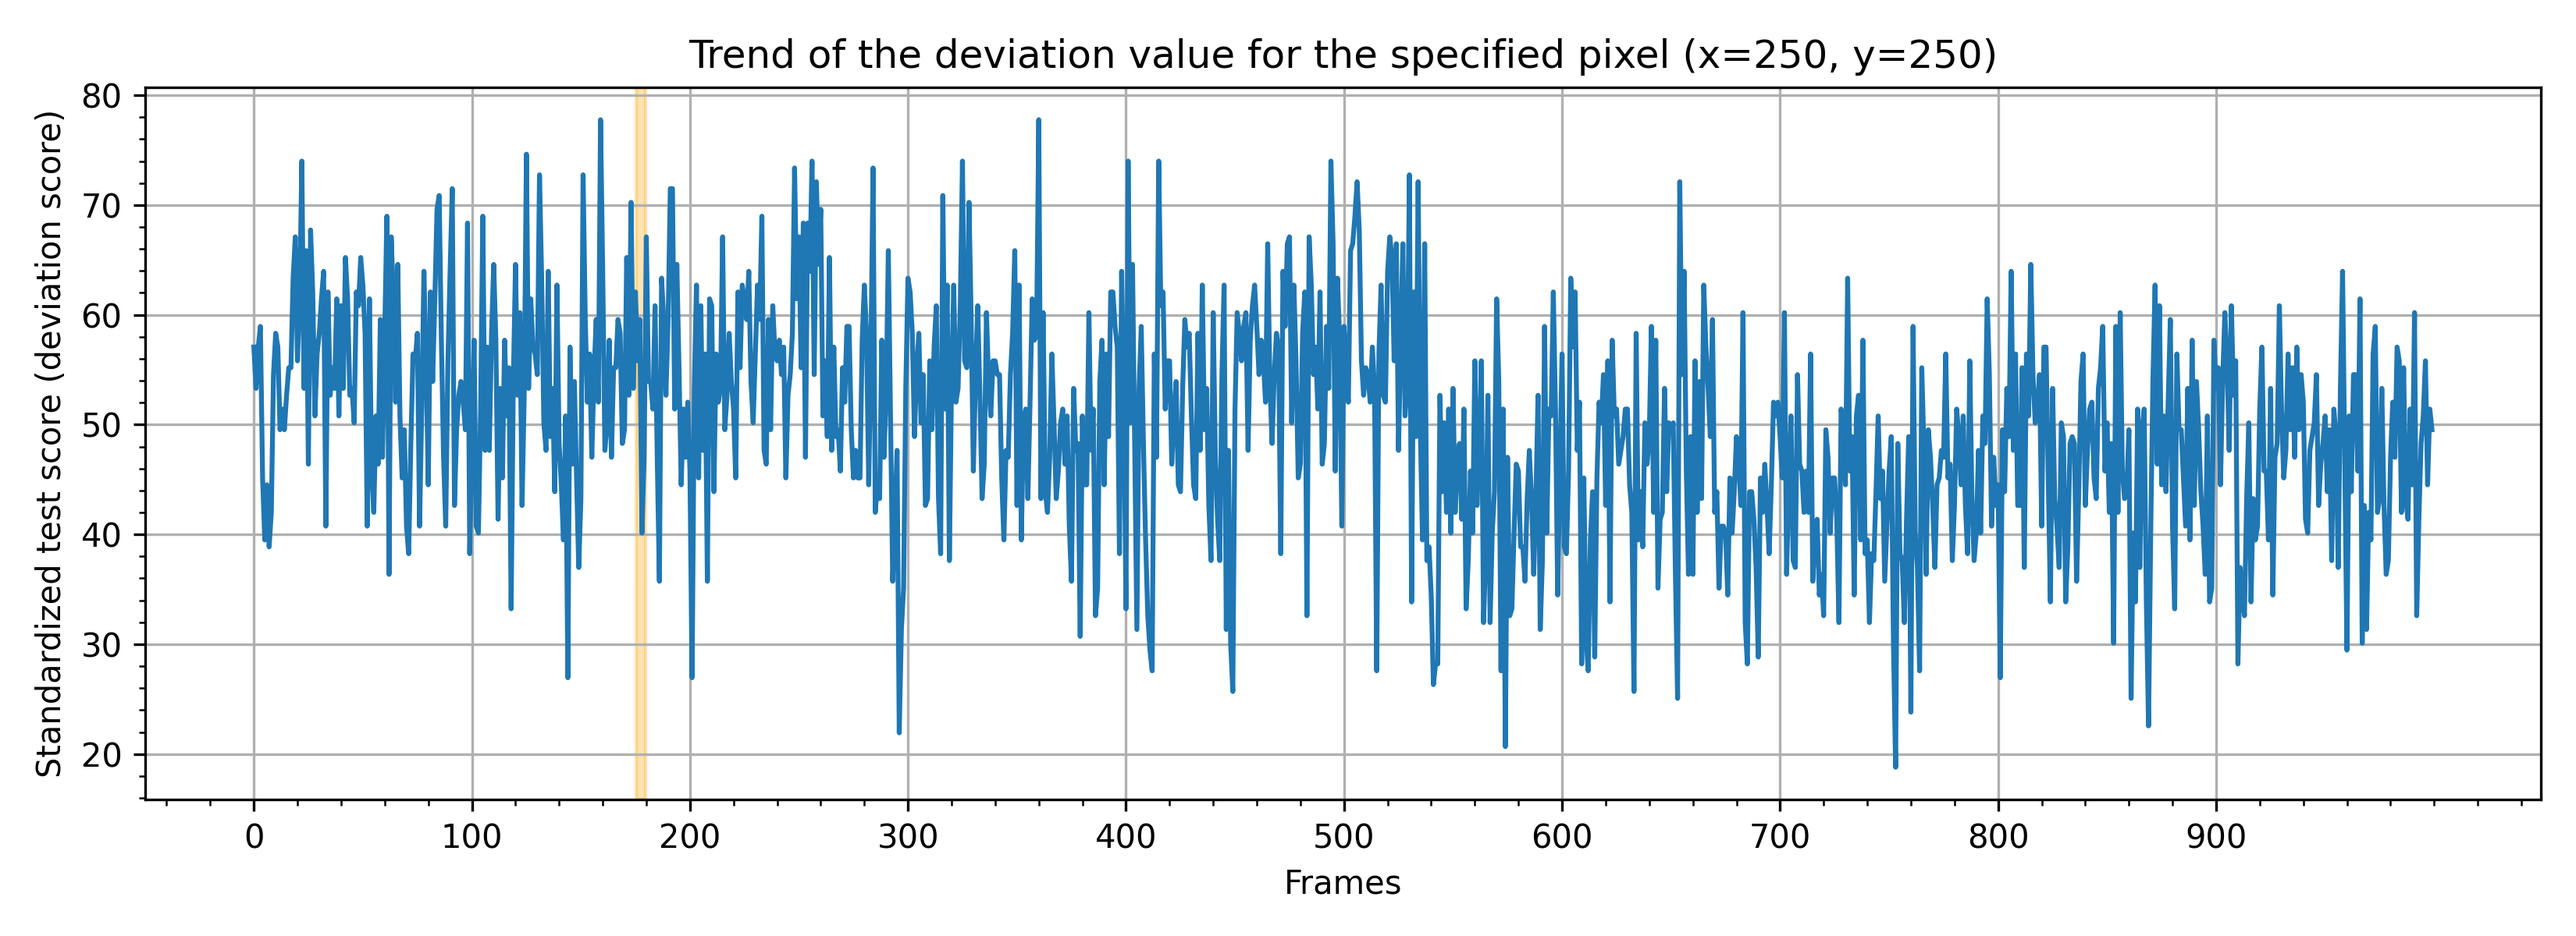
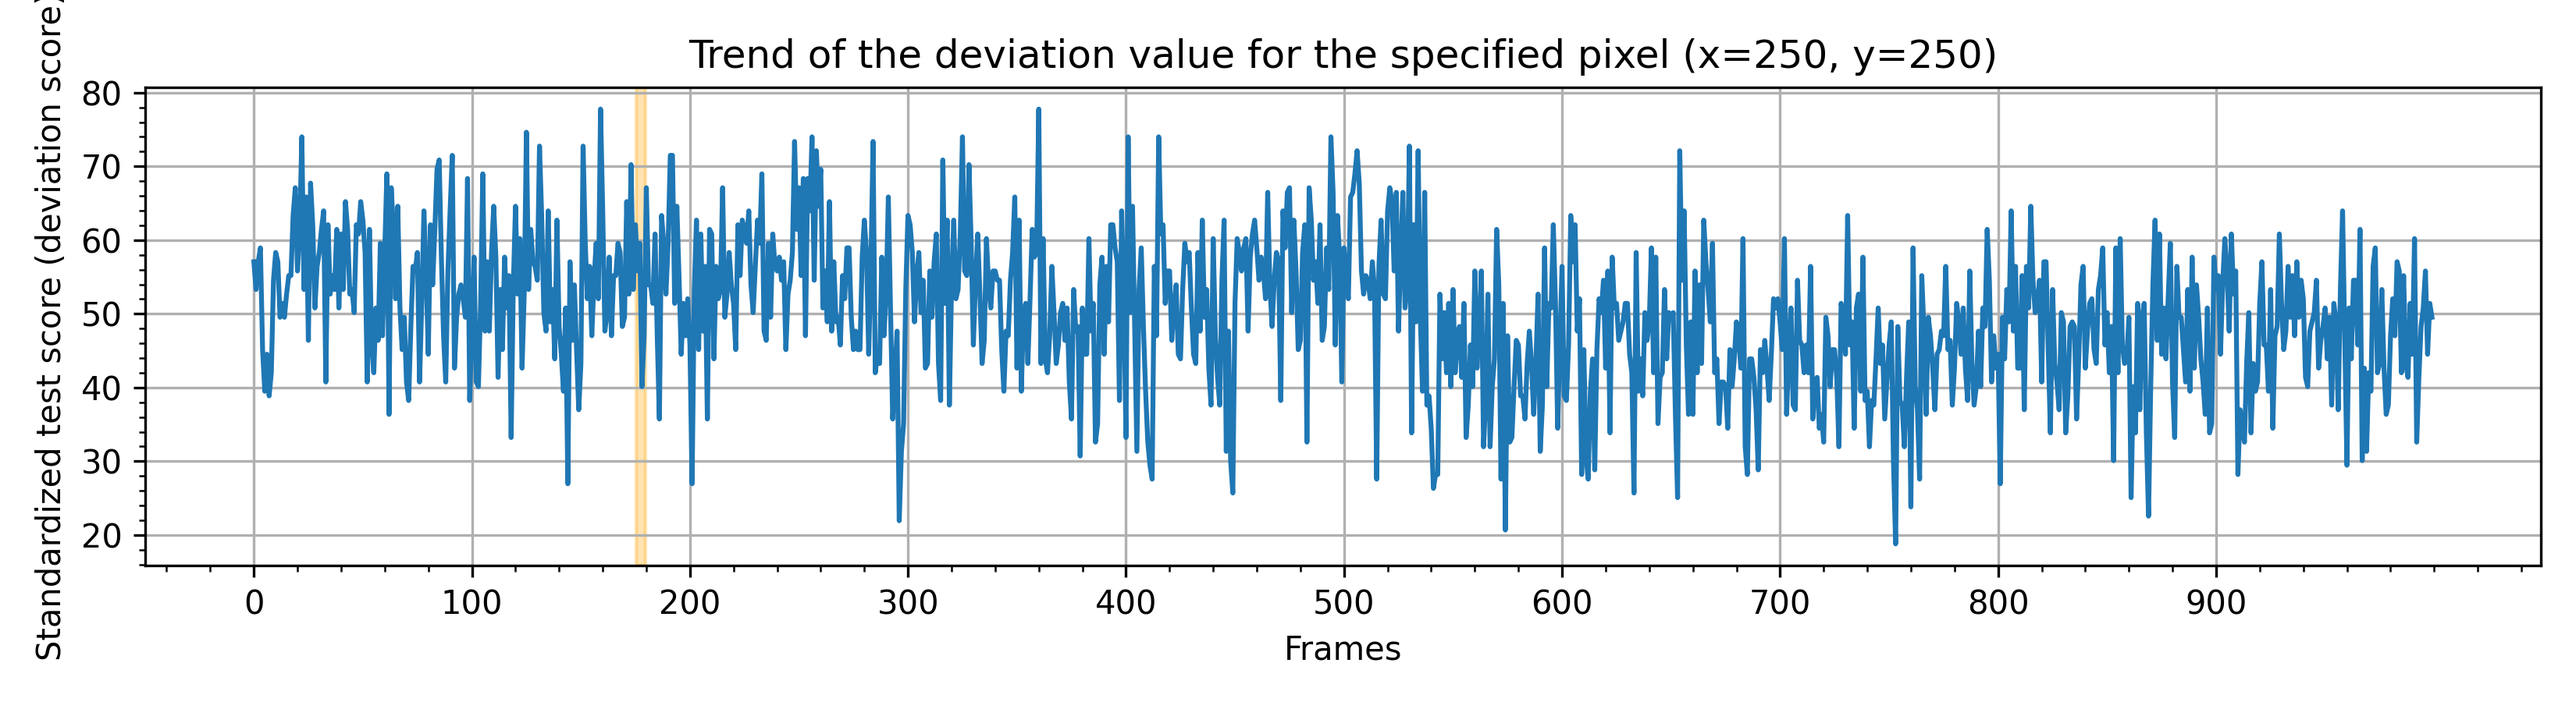
exe:縦幅狭く

diff --git a/graph.py b/graph.py
@@ -13,16 +13,16 @@ now_jst = datetime.now(JST)
 print(now_jst.isoformat(timespec="milliseconds"))
 
 # ファイルの上のほうに追加！
-INPUT_DIR = r"J:\Observe-Data\2025-08-30\2025-08-30pic-PL\2025-08-30-0448_4-CapObj"  # 入力フォルダのパス
+INPUT_DIR = r"J:\Observe-Data\2025-08-30\2025-08-30pic-LT\2025-08-30-0441_7-CapObj"  # 入力フォルダのパス
 CROP_H = 800             # 切り取る高さ（数値）
 CROP_W = 800             # 切り取る幅（数値）
 
 #強調するフレーム
-emphasis=[(8,9),(708,709)]
+emphasis=[(176,179)]
 
 # 見たいピクセル座標
-y = 400
-x = 400
+y = 250
+x = 250
 # ダミーの偏差値画像（10フレーム、5×5ピクセル）
 #hensachi = np.random.normal(
 #    loc=50,      # 平均50
@@ -74,7 +74,7 @@ frames = np.arange(len(pixel_values))
 
 # グラフ作成
 
-plt.figure(figsize=(11, 4))
+plt.figure(figsize=(11, 3))
 
 plt.minorticks_on()
 plt.xticks(np.arange(0, len(frames), 100))
